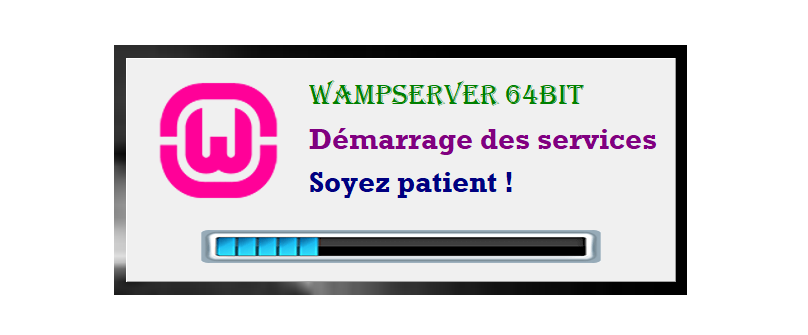
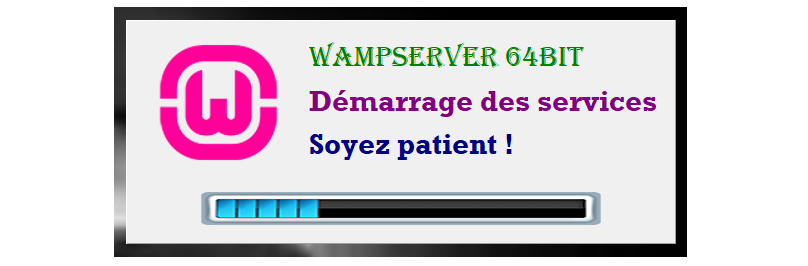
Mise à jour INSTALLATION GLPI.md, modification wampserver.png et ajout capture renommée

diff --git a/INSTALLATION GLPI.md b/INSTALLATION GLPI.md
@@ -17,7 +17,7 @@ Ce document décrit les étapes d’installation de GLPI pour le projet MDF.
 
 ![Ajout](images/base_1.png)
 
-- Créer une base de données `glpi_db`.
+- Créer une base de données `glpi`.
 
 ![Ajout](images/base_2.png)
 
